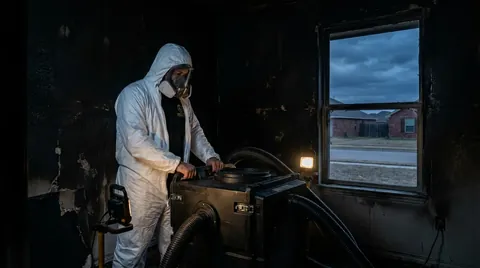
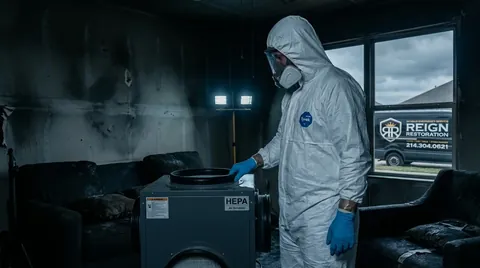
reign: fire + mold PPE sealed; style guide now spells out that no uniform may show
Both images shipped with the Tyvek worn open over the black company shirt, gold
crest visible through the gap, and bare hands on the equipment. That is the
defect Jerrott named on the call, on the two exact services he named.

CREW-OVERRIDE now states the closure explicitly rather than implying it: zipped
to the chin, hood up over the hair, respirator sealed, nitrile gloves on both
hands taped at the wrists, boot covers, and not one square inch of the uniform,
its crest or a collar visible through, under or above the suit. A visible crest
is now itself the reject condition, since that is the tell that the suit is open.

diff --git a/clients/reign-restoration/image-style-guide.md b/clients/reign-restoration/image-style-guide.md
@@ -79,7 +79,7 @@ The wrap, described so it can be checked without opening the file:
 
 VAN-OVERRIDE: a fleet of two to three matching satin-BLACK cargo vans, black bumpers and blacked-out wheels and no white or red panels or stripes anywhere, every van wrapped in EXACTLY the livery in the reference photograph of the company's real vehicle — the silver-white shield with its gold inner border and gold crown over an interlocking silver-white RR monogram on the forward third of the side panel, with the silver-white REIGN / RESTORATION wordmark set to its right — reproduced identically and at identical scale and position on every vehicle in the frame, inventing no additional stripe, badge, swoosh or lettering of any kind; EVERY VAN FACES THE SAME DIRECTION and is seen from the same side, so the crest sits at the same end of every van relative to its own nose and the wrap reads identically across the whole frame — vans facing opposite ways put the crest at the nose of one and the tail of the next, which is the exact mirroring Jerrott rejected
 
-CREW-OVERRIDE: the technician wears an all-black company uniform (black work shirt, black work pants) with a small gold crest embroidered on the chest and clean fitted nitrile work gloves on BOTH hands whenever handling anything, working in low-key moody light with deep shadows, shown from behind or in three-quarter profile with the face turned away from the camera and never smiling at it; PPE is worn ONLY where the scene shows active remediation work, and where it appears it is FULLY SEALED — white Tyvek coverall zipped to the throat, hood UP and drawn over the head, respirator strapped and sealed to the face, gloves taped at the wrists — a hood down, a suit unzipped or open like a jacket, a suit tied at the waist, or a respirator worn with no hood is a REJECTED image; in a portrait, group or parked-fleet scene where nobody is working, the crew wear the black uniform and NO PPE at all
+CREW-OVERRIDE: the technician wears an all-black company uniform (black work shirt, black work pants) with a small gold crest embroidered on the chest and clean fitted nitrile work gloves on BOTH hands whenever handling anything, working in low-key moody light with deep shadows, shown from behind or in three-quarter profile with the face turned away from the camera and never smiling at it; PPE is worn ONLY where the scene shows active remediation work, and where it appears it is FULLY SEALED: white Tyvek coverall zipped ALL the way to the throat with the zipper closed to the chin, hood UP and drawn over the head and hair, respirator strapped and sealed to the face, nitrile gloves ON BOTH HANDS and taped at the wrists, boot covers on. NOT ONE SQUARE INCH of the black company uniform, its gold chest crest, a collar, a T-shirt or any other garment may be visible anywhere through, under or above the suit: the suit is closed over all of it, and if a crest is showing then the suit is open and the image is REJECTED. A hood down, a suit unzipped or worn open like a jacket, a suit tied around the waist, a respirator worn with no hood, or bare hands touching anything is a REJECTED image. In a portrait, group or parked-fleet scene where nobody is working, the crew wear the black uniform and NO PPE at all
 
 MOOD-OVERRIDE: shot at blue hour or under heavy overcast in low-key cinematic light, deep shadows and near-black values, dark moody sky with no bright or blown-out highlights, graded like luxury-automotive advertising — expensive and restrained, never sunny or cheerful
 
